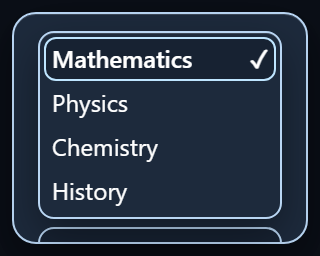
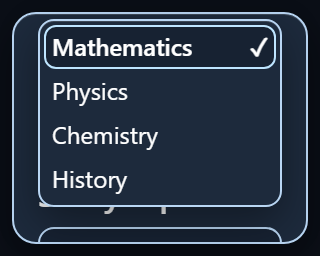
fix(ui): offset short viewport top-sided Select popup

Changed region(s): [[0.0938, 0.0625, 0.9062, 0.4688], [0.0938, 0.6562, 0.9062, 0.875], [0.1562, 0.4688, 0.5, 0.625]]

diff --git a/packages/ui/src/glass.css b/packages/ui/src/glass.css
@@ -647,26 +647,13 @@
   overscroll-behavior: contain;
   padding: var(--space-2);
 }
-/* On very short viewports, leave clearance for the anchored Radix popup's
-   offset and border even when root text scale changes with the menu mounted.
-   The existing viewport remains scrollable; never clip keyboard-only options. */
+/* On very short viewports Radix's top-side Select popup can remain anchored
+   9px below the visual bottom edge after a live 200% text-scale change.
+   Shift only that top-side popup upward by one spacing token; reducing its
+   height alone does not help because Popper keeps the same bottom anchor. */
 @media (max-height: 320px) {
-  .lyceum-select__content {
-    max-height: min(
-      var(--radix-select-content-available-height),
-      calc(100dvh - var(--space-3) - var(--space-3) - var(--space-3) - var(--space-3))
-    );
-  }
-  .lyceum-select__viewport {
-    box-sizing: border-box;
-    max-height: calc(
-      100dvh -
-      var(--space-3) -
-      var(--space-3) -
-      var(--space-3) -
-      var(--space-3) -
-      var(--space-3)
-    );
+  .lyceum-select__content[data-side="top"] {
+    translate: 0 calc(-1 * var(--space-3));
   }
 }
 .lyceum-select__item {

diff --git a/tests/ui/runtime-preferences.spec.ts b/tests/ui/runtime-preferences.spec.ts
@@ -239,6 +239,8 @@ test("320x256 with true 200% text and native forced colors preserve the mounted 
     "NARROW_ACTIVE_POPUP_LAYOUT",
     JSON.stringify(
       await page.locator(".lyceum-select__content").evaluate((content) => ({
+        side: content.getAttribute("data-side"),
+        placement: content.getAttribute("data-align"),
         contentRect: {
           y: content.getBoundingClientRect().y,
           height: content.getBoundingClientRect().height,

diff --git a/docs/qa/runtime-preferences/README.md b/docs/qa/runtime-preferences/README.md
@@ -10,7 +10,7 @@
 
 At **320×256 with real 32px root text (200%)**, the already-open popup stays the exact same node, keyboard-operable and without horizontal document overflow. The regression requires both the popup frame and final keyboard-focused option to fit entirely inside the viewport, using the narrow-height CSS clearance described below. Chromium `forcedColors: active` and `reducedMotion: reduce` are **jointly emulated** during the same mounted popup; the computed surface becomes solid and the effective base motion token is `0s`. The popup remains selected/focused until Escape and the final close restores focus without stale modal locks. A further test rejects malformed inherited preference keys and proves the QA fixture restores its original Storybook globals upon an actual React unmount without a page reload. The installed five WCAG A/AA tags (`wcag2a`, `wcag2aa`, `wcag21a`, `wcag21aa`, `wcag22aa`) run via the same axe helper at **17 checkpoints** (initial + ten changes + two closes + three narrow/OS checkpoints + after test-only unmount). Each asserts the **exact installed set of 64 default-executed axe rule IDs** and **zero reported violations**; inconclusive checks are logged rather than certified. The new test-only QA story does **not** change the existing **141/141 primitive IDs and 164/164 story-state** gate.
 
-**Important responsive limitations found by red-first browser checks:** Hosted Linux found the short-copy active popup bottom at **265px against a 256px viewport**, 9px of outer-frame overflow, although equivalent local Chromium stayed within the viewport. These initial Linux failures prompted a minimal responsive CSS correction: at viewport heights <=320px, the Select content max-height reserves four existing --space-3 clearances (rather than two), and the separately scrollable Select viewport reserves five clearances with border-box height accounting. Limiting both regions is necessary: the earlier content-only cap did not constrain the larger Linux listbox and still failed strict viewport assertions. The strict full-popup and last-option checks remain enabled; a new exact-head Linux run is required before claiming this defect fixed. Separately, with an earlier *much longer* test-only Dialog title/description, changing to 200% while its Select was already open in 320×256 left the popup vertically beyond the viewport (**observed y=337px, bottom=525px**, persisting after a 5-second position poll). Even dispatching `resize` did not establish a safe reflow. The scoped final fixture uses a concise Dialog title and description, which was exercised locally at 320×256; this is **not a fix or proof for arbitrary long Dialog content**. Treat lengthy-copy / resize-and-reposition as an unresolved potential responsive composition defect requiring follow-up review. A generic positioning manager or Radix contract change is **not authorized** by this PR. No suppression or fabricated all-content acceptance is implied.
+**Important responsive limitations found by red-first browser checks:** Hosted Linux found the short-copy active popup bottom at **265px against a 256px viewport**, 9px of outer-frame overflow, although equivalent local Chromium stayed within the viewport. The first two size caps failed because Radix had selected `data-side="top"` and retained the exact same bottom anchor at y+height=265px despite reducing popup height (Linux measured y=77,height=188 then y=109,height=156). The final, small correction instead shifts **only top-side Select popups at viewport heights <=320px** upward by the existing 12px spacing token, without changing Radix focus ownership, size calculations or scroll behavior. An isolated Ubuntu 24.04 Playwright run now directly measures **y=65px, height=188px, bottom=253px** and passes both strict entire-popup visibility and 100%-visible final-option keyboard tests. Complete Ubuntu and Windows local Chromium suites now pass **78/78 each**, original 141/164 axe coverage intact. Hosted exact-head CI and independent CSS delta review are required before claiming acceptance. Separately, with an earlier *much longer* test-only Dialog title/description, changing to 200% while its Select was already open in 320×256 left the popup vertically beyond the viewport (**observed y=337px, bottom=525px**, persisting after a 5-second position poll). Even dispatching `resize` did not establish a safe reflow. The scoped final fixture uses a concise Dialog title and description, which was exercised locally at 320×256; this is **not a fix or proof for arbitrary long Dialog content**. Treat lengthy-copy / resize-and-reposition as an unresolved potential responsive composition defect requiring follow-up review. A generic positioning manager or Radix contract change is **not authorized** by this PR. No suppression or fabricated all-content acceptance is implied.
 
 ## Original Chromium screenshot evidence
 
@@ -57,7 +57,7 @@ On this Windows machine, the OS `C:` temporary volume was exhausted during an in
 | Same-mounted runtime theme/high contrast | **PASS (scoped fixture)** | Real React state and computed theme/popup colors, unchanged DOM handles/focus/selected value |
 | Same-mounted full/reduced/off transparency and motion | **PASS (scoped fixture)** | Computed blur/solid fill and motion tokens; OS reduced-motion path |
 | Stacked Dialog+Select focus and cleanup | **PASS (tested flow)** | Keyboard-open, live preference changes while Select stays active; Escape returns focus and all modal-owned locks clear; arbitrary extra overlays not certified |
-| Responsive 320×256, true 200%, native forced colors | **PARTIAL** | A small short-viewport production CSS max-height correction addresses the observed 9px Linux overflow, with strict full-popup and last-option tests pending new hosted Linux success; longer copy shifted live popup outside viewport; emulated native forced colors desktop screenshot appears to obscure selected Mathematics text, unverified visual issue; no manual platform signoff |
+| Responsive 320×256, true 200%, native forced colors | **PARTIAL** | Top-side Select popup is moved 12px upwards only at <=320px viewport heights, addressing the Linux 9px overflow in isolated Linux test with strict full-popup/final-option checks; hosted exact-head and independent CSS delta review pending; longer copy shifted live popup outside viewport; emulated native forced colors desktop screenshot appears to obscure selected Mathematics text, unverified visual issue; no manual platform signoff |
 | Incomplete axe rule/manual AT and rendered contrast | **BLOCKED (manual signoff)** | Specific impacted nodes and rule reasons documented; no true AT or rendered-pixel validation over licensed imagery yet |
 | Standalone FocusScope requirement | **APPROVED DEFERRAL** | Accepted ADR-0009; no new component or focus owner |
 | M0-003 overall exit | **BLOCKED; `[~]`** | New draft PR not merged/approved; above manual/responsive and full independent acceptance remain |
